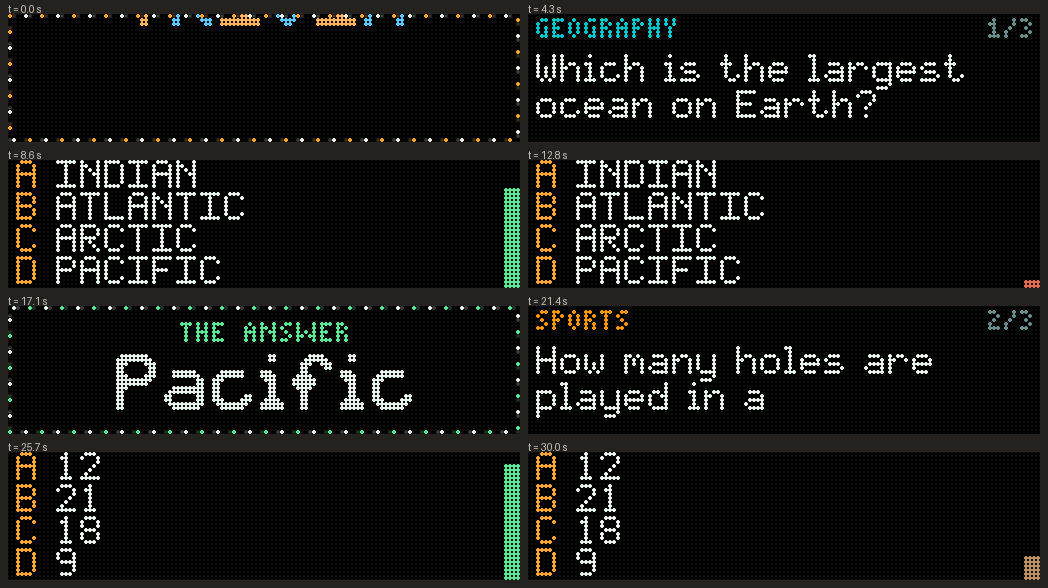
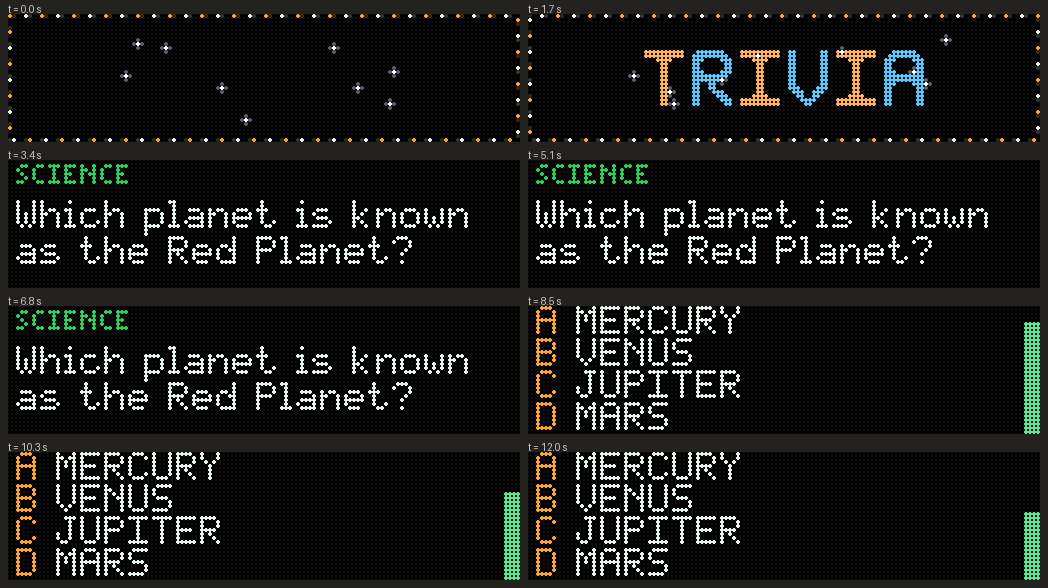
bar_trivia 1.0.2: drop the n/3 question counter, which meant nothing when a visit shows one question

diff --git a/plugins/bar_trivia/plugin.py b/plugins/bar_trivia/plugin.py
@@ -20,7 +20,7 @@ from urllib.parse import unquote
 import aiohttp
 from PIL import Image
 
-from rackticker import (AMBER, EFFECTS, GREEN, MUTED, RED, WHITE, Lettering, Module, Plugin, Provider,
+from rackticker import (AMBER, EFFECTS, GREEN, RED, WHITE, Lettering, Module, Plugin, Provider,
                         Snapshot, Storyboard, bulb_border, draw_text, draw_tiny, ease_out, mix, new_frame,
                         text_width, tiny_width, wrap_text)
 
@@ -321,8 +321,6 @@ class Trivia(Module):
         item = step["q"]
         _, _, short, color = CATEGORIES[item["category"]]
         draw_tiny(frame, short, 2, 1, color)
-        count = f"{step['number']}/{step['count']}"
-        draw_tiny(frame, count, 126 - tiny_width(count), 1, MUTED)
         start, index = 0.0, 0
         for index, page in enumerate(pages):
             if local < start + page_seconds(page):
